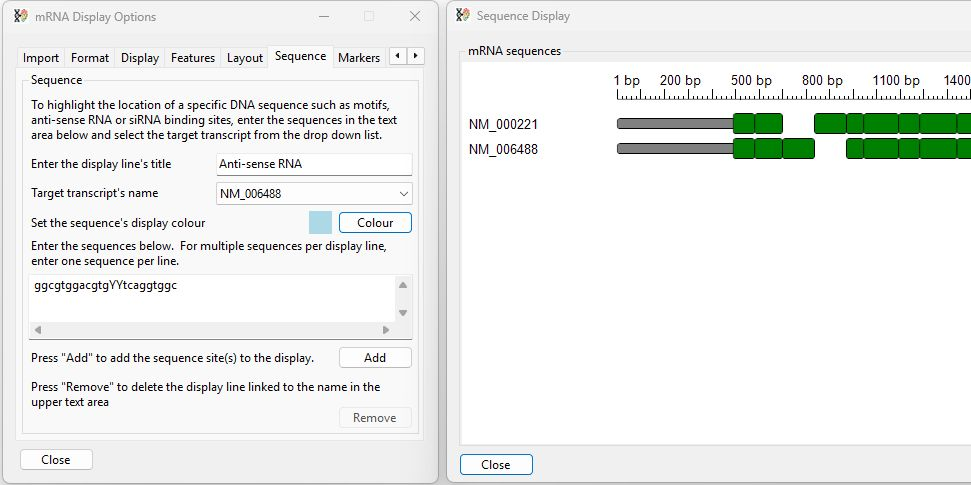
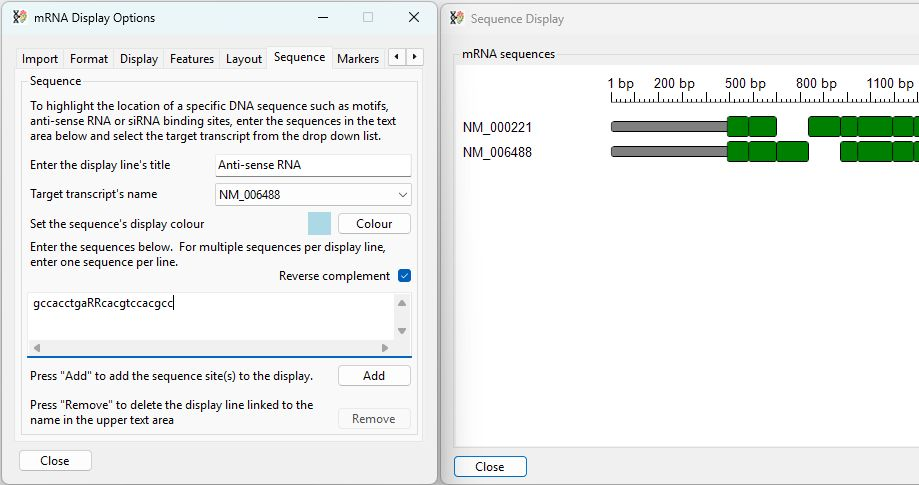
Updating guide to include reverse complement option when adding a sequence of interest

Changed region(s): [[0.0, 0.0, 1.0, 1.0], [0.6398, 0.1546, 1.0, 0.3402]]

diff --git a/Guide/SequencesOfInterest.md b/Guide/SequencesOfInterest.md
@@ -13,7 +13,7 @@
 
 The __Sequence__ tab of the __mRNA Display Options__ window provides controls for the selection and display of sequences entered by the user. These sequences could represent the target site of an anti-sense RNA, a PCR primer binding site or a region of interest  (Figure 1).
 
-The process by which a line is added to the image that displays the location of a sequence of interest consists of four or five steps. 
+The process by which a line is added to the image that displays the location of a sequence of interest consists of four or six steps. 
 
 ![Figure 2](images/figureSequence2.jpg)
 
@@ -35,6 +35,7 @@ Figure 3.
 ---
 
 - Next, enter the sequence(s) of interest into the lower larger text area (black line in Figure 2). These sequences must be in the same sense as the sequence in the transcript and not its reverse complement; consequently, anti-sense RNA or siRNA sequences must be reverse complemented. See the section [Hit detection](#Hit-detection). If you want to display more than one sequence on a display line, enter each sequence on a new line in the text area.
+- If the entered sequence is tht reverse complement of the transcript's sequents tick the __Reverse complement__ check box. This will instruct __TransGBViewer__ to reverse complement the sequence before searching for a hit. __Note:__ If you enter more then one sequence they must all be in the same orientation.
 - Finally, press the __Add__ button (purple line in Figure 2) to import and display the sequences. See Figures 4a and 4b.
 
 
@@ -60,7 +61,7 @@ __Note:__ The display line's text is case sensitive so __Anti-sense RNA__, __ant
 ## Hit detection
 Important points:
 
-- The search sequence can contain the upper and lower case letters: _A_, _C_, _G_ _T_, _R_, _Y_, _S_ and _W_, but not _U_. 
+- The search sequence can contain the upper and lower case letters: _A_, _C_, _G_ _T_, _R_, _Y_, _S_ and _W_. 
 - If a sequence contains _A_, _C_, _G_ _T_, _R_, _Y_, _S_ and _W_ characters, matches score as  1; for example, if __R__ is aligned to an __A__, the match is scored the same as if __A__ were matched to __A__ (See Table 1). 
 
 
@@ -70,6 +71,7 @@ Important points:
 |_C_|_C_|
 |_G_|_G_|
 |_T_|_T_|
+|_U_|_T_|
 |_R_|_A_ or _G_|
 |_Y_|_C_ or _T_|
 |_S_|_C_ or _G_|
